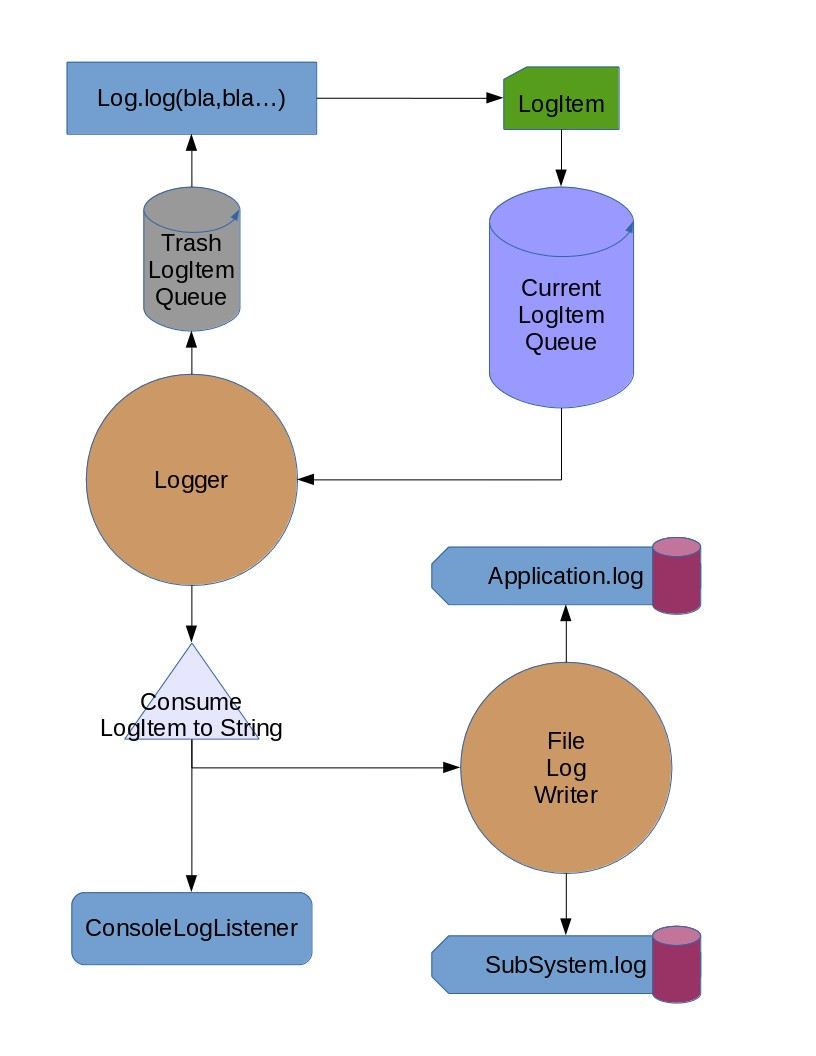
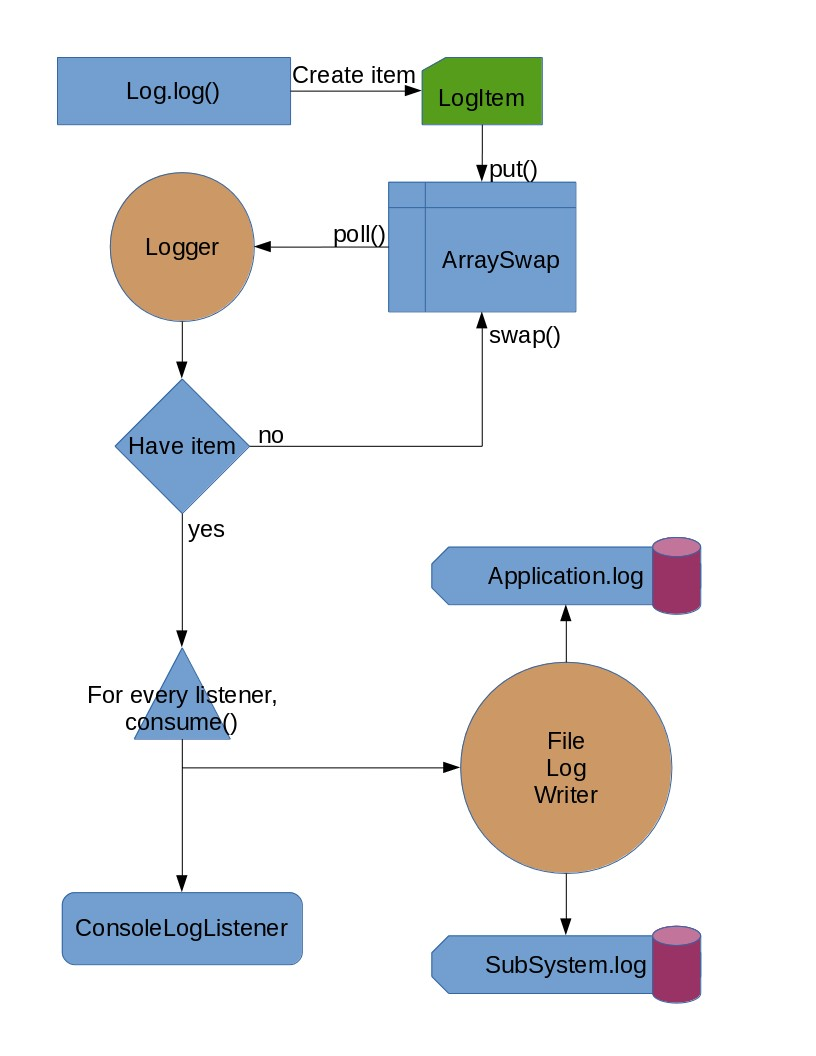
- update readme - update flowchart

Changed region(s): [[0.0613, 0.0312, 0.7966, 0.8438], [0.0613, 0.8438, 0.3983, 0.9062]]

diff --git a/README.md b/README.md
@@ -1,6 +1,33 @@
 # ShotLogger
 My ThreadSafe implementation of a Logger
 
+# Disclaimer
+
+USE WITH YOUR OWN RESPONSIBILITY!
+No guarantees if this works or not.
+
+# Getting started
+
+```java
+
+// Start the Logger
+ShotLogger.getShotLogger().startBasic("/your/path/to/log/directory/log");
+
+// Send a log message
+Log.info("MyApplicationInit", this.getClass().getSimpleName(), "hello world!", null);
+
+// Stop the Logger
+ShotLogger.getShotLogger().close();
+
+// Note that logger is not-daemon
+// eg. it will block application from exiting if not closed
+
+```
+
+# Under the hood
+
+I am bad at creating flowcharts, but this is the principle.
+
 <img src="https://raw.githubusercontent.com/SHOTbyGUN/ShotLogger/master/other/crudeFlowChart.jpg">
 
 <img src="https://raw.githubusercontent.com/SHOTbyGUN/ShotLogger/master/other/crudeLegend.jpg">
